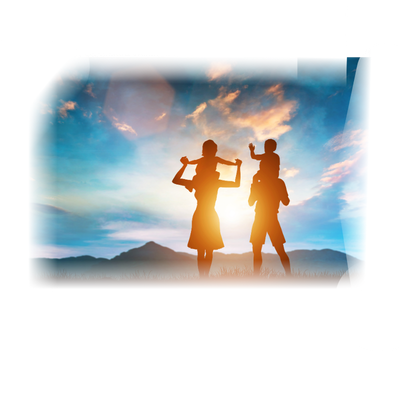
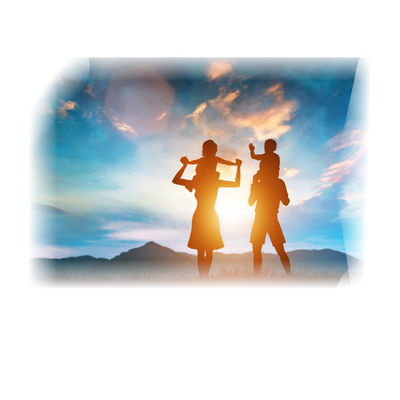
Specs Pages

Changed region(s): [[0.18, 0.12, 0.93, 0.21]]

diff --git a/Web/main.js b/Web/main.js
@@ -4231,7 +4231,7 @@ Pais que desejam aprimorar a comunicação e o vínculo com os filhos`,
         position:'relative',
         display:'block',
         width:'100%',
-        marginTop:{'Mobile':{'Portrait':'100%','Landscape':''},'Pc':'0%'},
+        marginTop:{'Mobile':{'Portrait':'85%','Landscape':'-12%'},'Pc':'0%'},
          backgroundColor:'rgba(0,0,0,0)',
         height:{'Pc':'20%','Mobile':{'Portrait':'','Landscape':''}},
        // border:'solid 1px black',
